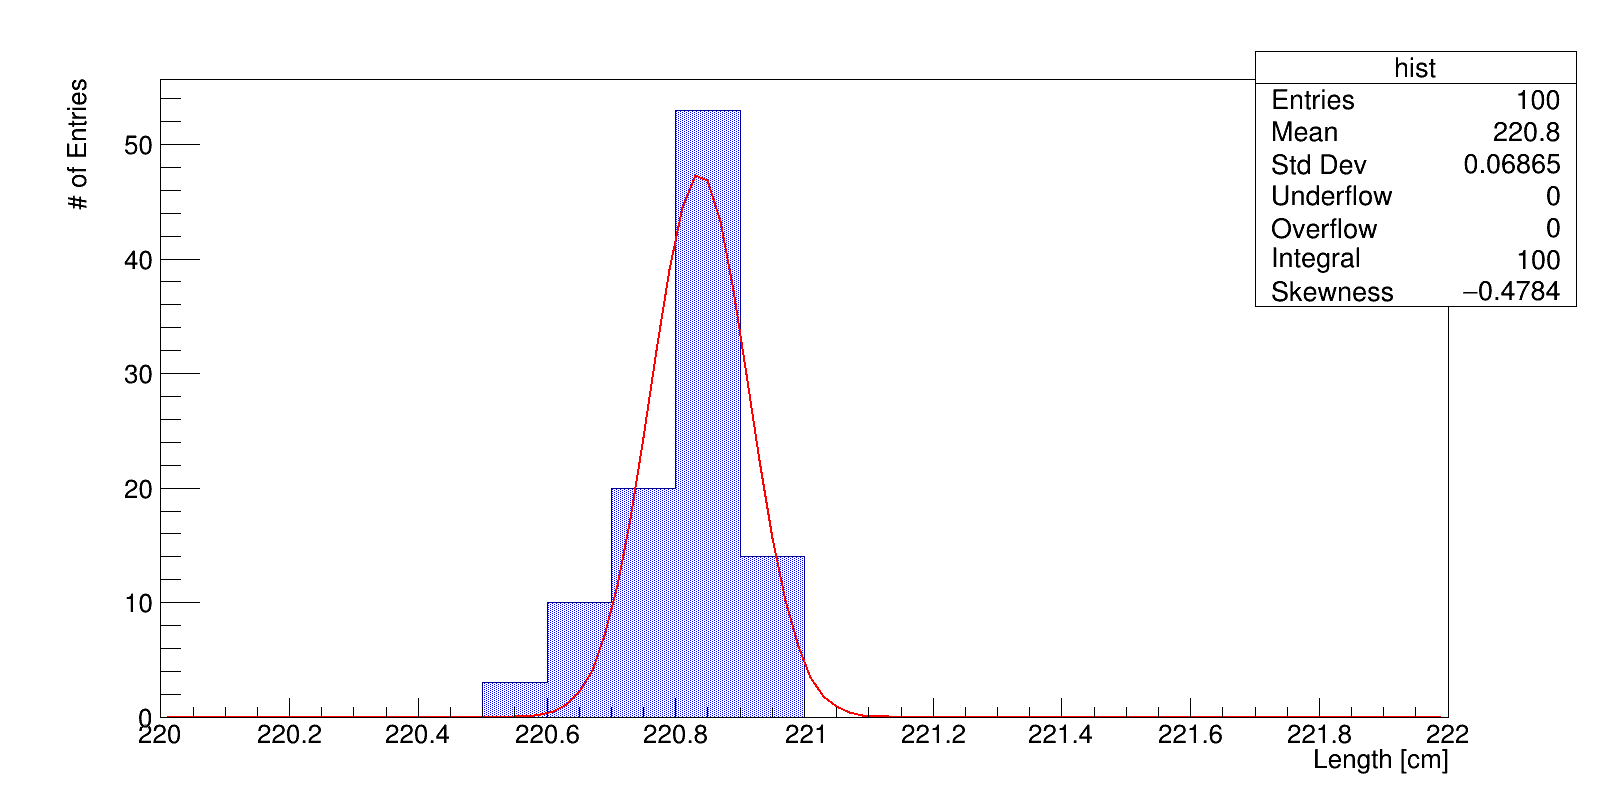
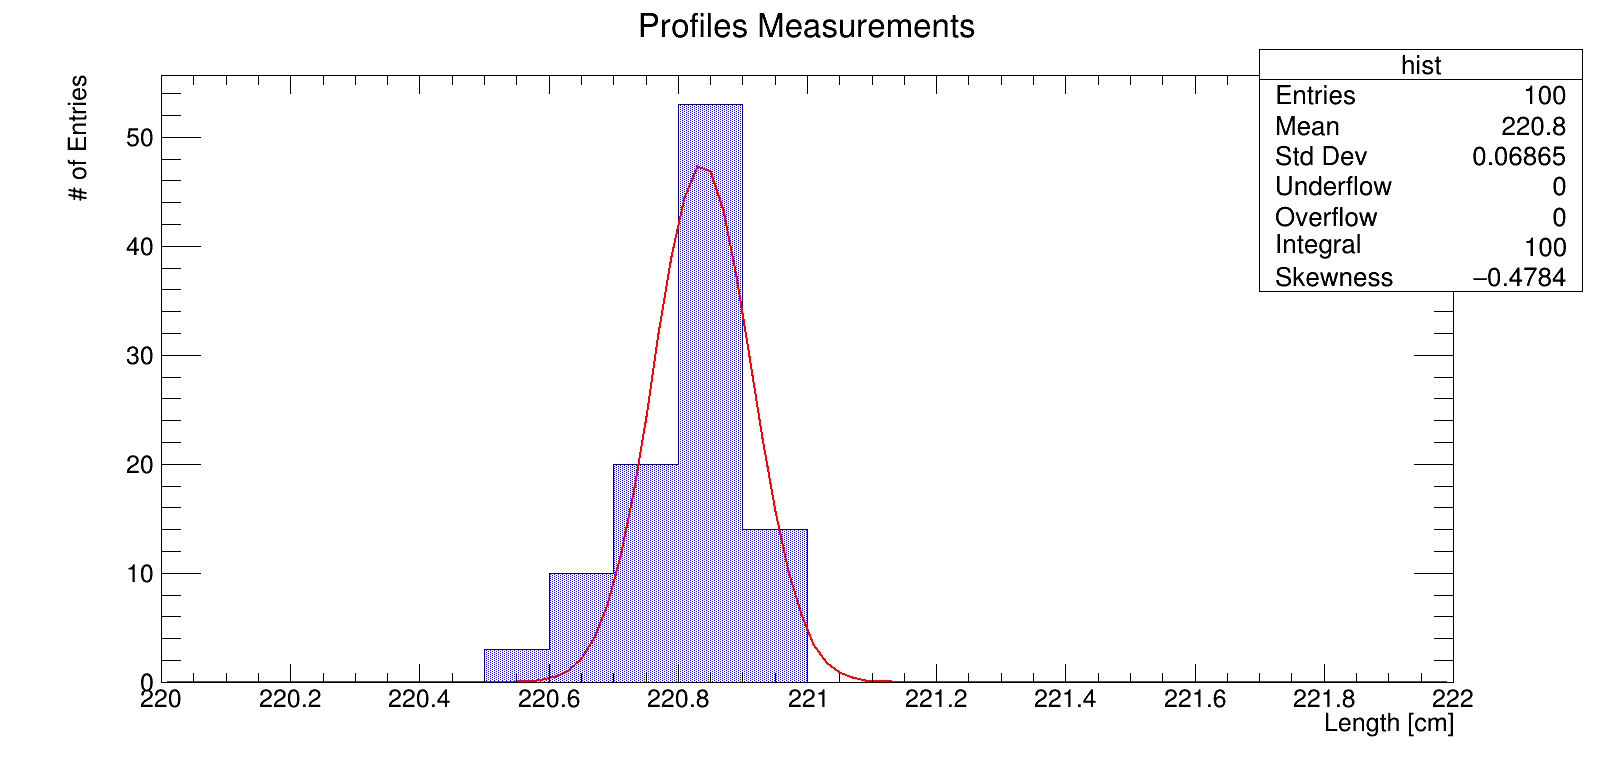
second commit

diff --git a/Profile Measurement/profileHist.C b/Profile Measurement/profileHist.C
@@ -3,7 +3,7 @@
 void profileHist()
 {
 	//Creating Histogram
-	TH1D* hist = new TH1D("hist", "; Length [cm]; # of Entries", 20, 220, 222); //Bin number = (222-220)/0.1 = 20 
+	TH1D* hist = new TH1D("hist", "Profiles Measurements; Length [cm]; # of Entries", 20, 220, 222); //Bin number = (222-220)/0.1 = 20 
 	
 	Double_t data; //Profile length 
 	ifstream fInput;
@@ -23,6 +23,7 @@ void profileHist()
 
 	//Drawing Histogram
 	TCanvas* c1 = new TCanvas();
+	c1->SetTicks();
 	gStyle->SetOptStat(11111111); //more stats
 	hist->Draw();
 	hist->Fit("gaus");
